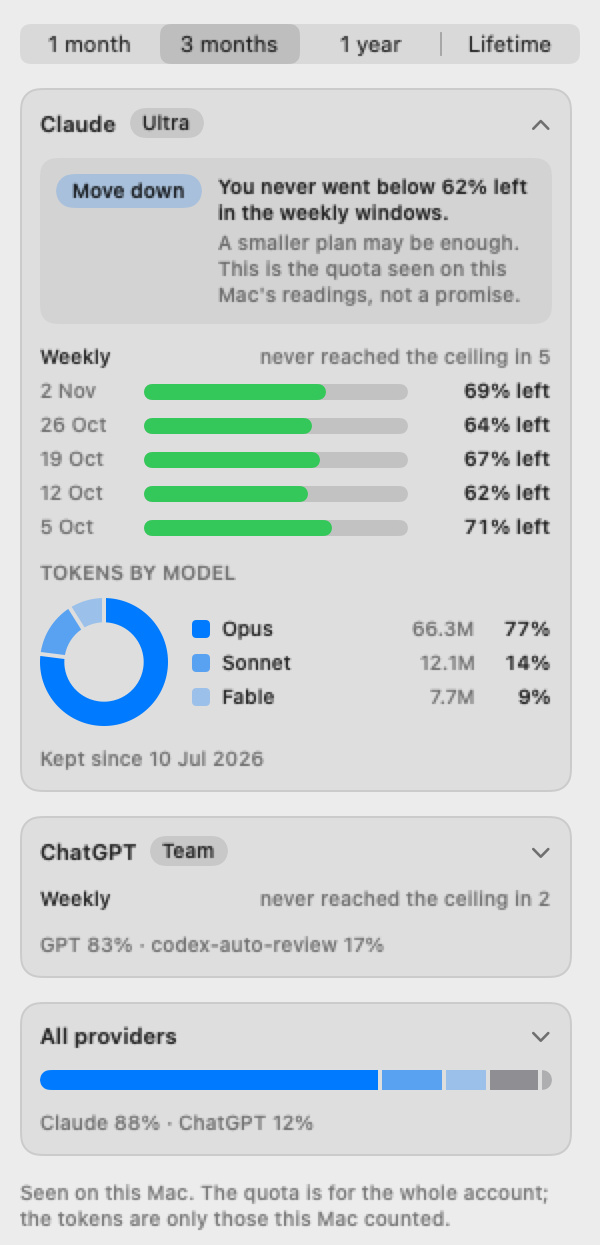
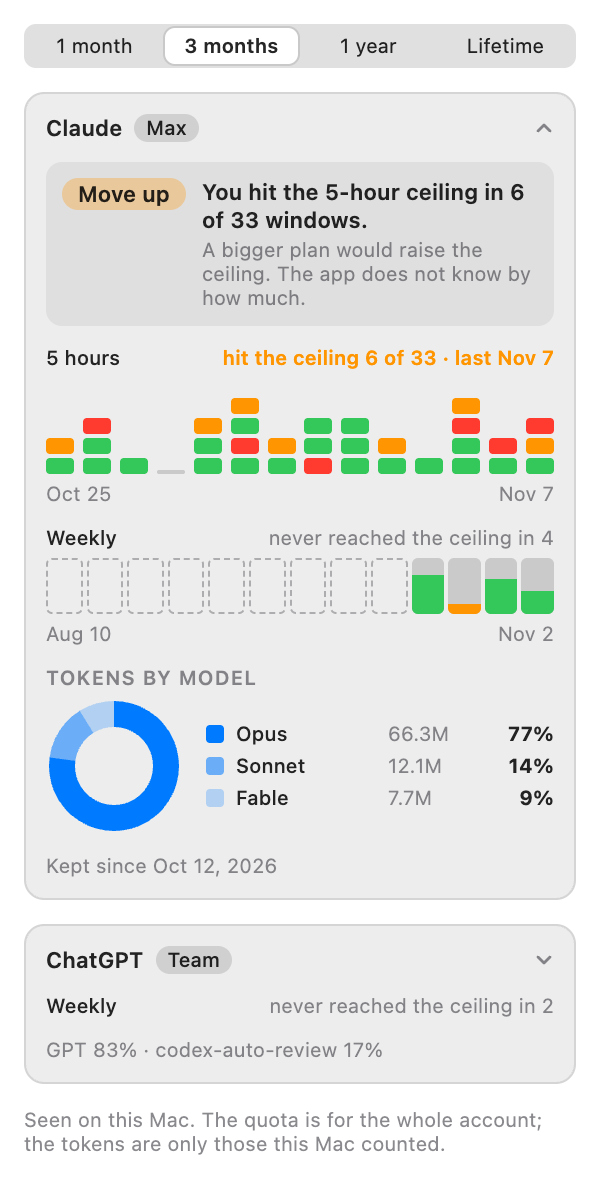
docs(use): the stats as strips, the 5 hours in the verdict and Move up
The verdict table, what an open card lists and the picture of the stats view. The picture
is drawn from the design with sample data, not captured from the app.

Changed region(s): [[0.03, 0.0, 0.96, 1.0], [0.96, 0.0305, 0.99, 0.061]]

diff --git a/docs/use/stats.md b/docs/use/stats.md
@@ -10,7 +10,7 @@ What the stats view of the panel says, and what it leaves out on purpose.
 
 ## Open it
 
-![The stats view of the panel: a range control, the first card open with its verdict and a ring of the models, the second card closed to a line for each window, and the card for all providers](../assets/stats.png)
+![The stats view of the panel: a range control, the first card open with its verdict, the 5-hour and the weekly strips and a ring of the models, and the second card closed to a line](../assets/stats.png)
 
 The row of icons at the bottom of the panel has a chart. Click it and the panel shows the stats instead of the current
 quota; the icon becomes a gauge, and a click on it takes you back. The panel always opens on the current quota, and the stats are one click away.
@@ -18,44 +18,52 @@ quota; the icon becomes a gauge, and a click on it takes you back. The panel alw
 ## The range
 
 The control at the top picks how far back the stats look: **1 month**, **3 months**, **1 year** or **Lifetime**, which is
-everything the app has kept. It changes the tokens by model and how many windows are counted; the list of windows below is
-always the latest few (four for a month, six for the longer ranges).
+everything the app has kept. It changes the tokens by model, how many windows are counted and how many blocks the weekly strip has
+(4, 13, 52 or as many as fit); the 5-hour strip is always the last 14 days.
 
 ## A card for each provider, closed or open
 
 Each provider that is on has a card, in the order of Settings. **One card is open at a time**, so the panel keeps a height that
 fits the screen: the first one until you choose, then the one you opened last, which the panel remembers. Open, a card has the
-verdict, the windows that ended and the models as a ring; closed, one line for each window (what the app saw) and one for the models.
+verdict, the windows that ended as strips and the models as a ring; closed, one line for each window (what the app saw) and one for the models.
 **A click anywhere on a card opens it and closes the one that was open**, and a click on the open one closes it. **All providers** is a
 card of its own, and counts as one of them: open, the models under their provider, indented, against one total; closed, a bar.
 
 ### The verdict
 
-A word at the top of an open card, from percentages only:
+A word at the top of an open card, from percentages only. It counts the 5-hour windows as well as the weekly ones: a window length
+counts once it has ended **4 times** in the range, or **12 times** for a window shorter than a day.
 
-| Word          | When                                                                                                                                                                           |
-| :------------ | :----------------------------------------------------------------------------------------------------------------------------------------------------------------------------- |
-| **Wait**      | Fewer than four windows of any length have ended in the range. Claude's weekly quota is kept from the day the app first ran this version, so it says Wait for the first weeks. |
-| **Stay**      | The ceiling was reached in any window that counts, or the readings were not complete enough to say more, or the lowest margin was under 60% left.                              |
-| **Move down** | The ceiling was never reached, every reading was seen near the end of its window and the lowest margin was 60% left or more.                                                   |
+| Word          | When                                                                                                                                                                  |
+| :------------ | :-------------------------------------------------------------------------------------------------------------------------------------------------------------------- |
+| **Wait**      | No window length has ended enough times in the range. Claude's weekly quota is kept from the day the app first ran this version, so it says Wait for the first weeks. |
+| **Move up**   | The ceiling was reached at least twice, and in at least 15% of the windows, of a length that counts. It names the window that went there most often.                  |
+| **Stay**      | The ceiling was reached, but not often enough for Move up, or the readings were not complete enough to say more, or the lowest margin was under 60% left.             |
+| **Move down** | The ceiling was never reached, every reading was seen near the end of its window and the lowest margin was 60% left or more.                                          |
 
-It never says Move up, because the size of the other plans is not known, and it never looks at tokens. The four windows and the 60%
-are a choice and not a measurement.
+Move up says the ceiling is reached often. It does not say which plan to take, because the size of the other plans is not known, and
+it never looks at tokens. The counts, the 15% and the 60% are a choice and not a measurement.
+
+When the weekly limit is not known yet, as Claude's is before the first reply of a session, a notice under the verdict says so: the
+verdict is drawn from the 5 hours alone and may change when the weekly figure arrives.
 
 ### What an open card lists
 
-Each provider that is on has a card, in the order of Settings. For each window the plan has:
+Each provider that is on has a card, in the order of Settings. For each window the plan has, a line and a strip of blocks, with time
+running from left to right:
 
-| What you see                           | Meaning                                                                                                                                                                                                     |
-| :------------------------------------- | :---------------------------------------------------------------------------------------------------------------------------------------------------------------------------------------------------------- |
-| A date, a bar and `12% left`           | A window that ended on that date, and **at most** that much was left: the highest use the app saw in it. With [Show on the bars](./bars.md#left-or-used) on Used it reads `88% used`, the highest use seen. |
-| `~12% left`, the bar at half strength  | The last reading was a good while before the window ended, so it may have ended with less.                                                                                                                  |
-| `hit the ceiling 1 of 4 · last Oct 27` | In how many of the windows in the range the ceiling was reached (100%), and when it last was.                                                                                                               |
-| `never reached the ceiling in 4`       | The windows the app saw in the range, none of which went to 100%.                                                                                                                                           |
-| `not observed`                         | The app saw no window of that length end in the range. Nothing is made up for the gap.                                                                                                                      |
+| What you see                           | Meaning                                                                                                                                                                                                   |
+| :------------------------------------- | :-------------------------------------------------------------------------------------------------------------------------------------------------------------------------------------------------------- |
+| The **5 hours** strip                  | The last 14 days, one column for each day with a block for each window that ended in it, the oldest at the bottom. A day with no window is a thin line.                                                   |
+| The **weekly** strip                   | One block for each week of the range, filled as a bar is. A dashed block is a week the app did not see: nothing is made up for the gap.                                                                   |
+| The colour of a block                  | The colour a bar of what was left would have: green when there was plenty, orange under 40% and red under 15%. A window that reached the ceiling keeps a sliver when the bar would be empty.              |
+| A block at half strength               | The last reading was a good while before the window ended, so it may have ended with less.                                                                                                                |
+| The tooltip of a block                 | Point at a block for its date and **at most** what was left, the highest use the app saw in it: `Nov 5, 3:00 PM · 0% left`. With [Show on the bars](./bars.md#left-or-used) on Used it reads `100% used`. |
+| `hit the ceiling 1 of 4 · last Oct 27` | In how many of the windows in the strip the ceiling was reached (100%), and when it last was.                                                                                                             |
+| `never reached the ceiling in 4`       | The windows the app saw, none of which went to 100%.                                                                                                                                                      |
+| `not observed`                         | The app saw no window of that length end. Nothing is made up for the gap.                                                                                                                                 |
 
-The **5-hour windows are not listed for now**, and the verdict does not use them: several of them end in one day, and how to show that
-clearly is still to be designed. Only windows of a day or longer, such as the weekly one, are listed.
+Every block has a label for VoiceOver with the same text as its tooltip.
 
 ## Tokens by model
 
